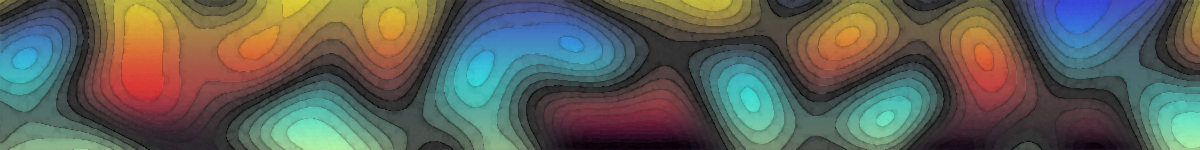
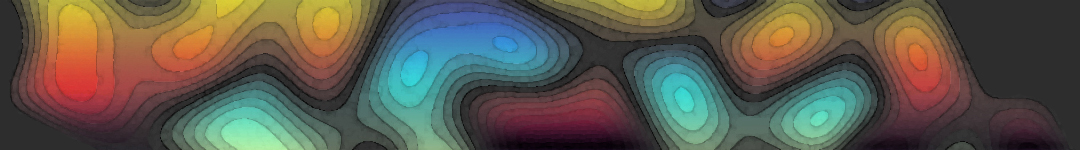
ver3
yee

diff --git a/style.css b/style.css
@@ -71,12 +71,18 @@ topbar{
 OBwindow {
   margin: 0 auto;
   width: 60%;
-  min-height: 300px;
+
   display: block;
   margin-top: 80px;
-  margin-bottom: 0px;
+  margin-bottom: 80px;
   position: relative;
+
+  transition: width 0.2s;
   /*box-shadow: 0 0px 10px 5px #777;*/
+}
+OBwindow:hover{
+  width: 62%;
+
 }
 .imageWindow{
   display: flex;
@@ -99,8 +105,6 @@ OBwindow {
   display: block;
   top: 0;
   left:0;
-
-
 }
 .typWindow{
   font: 22px Arial, sans-serif; color:rgb(221, 221, 221);
@@ -113,24 +117,26 @@ OBwindow {
   display: block;
   top: 0;
   left:0;
-
-
 }
 .contentWindow{
   display: block;
   overflow: hidden;
   width: 100%;
   border-bottom: 1px solid rgb(55, 56, 58);
-  height: 35px;
+  height: 0px;
   box-shadow: 7px 0px 10px -4px var(--shadowsColor), -7px 0px 10px -4px var(--shadowsColor), 0px 3px 6px 2px var(--shadowsColor);
   background-color: lightgrey;
+  z-index: 3;
+  transition: height 1s;
+
 }
+/*
 .contentWindow:hover{
-background-color: rgb(220,220,220);
+  background-color: rgb(220,220,220);
 }
 .contentWindowActive{
-  height: auto;
-}
+
+}*/
 .buttonCentr {
     cursor: pointer;
     min-width: 100px;
@@ -145,7 +151,7 @@ background-color: rgb(220,220,220);
 
 filtrTab{
   background-color: rgb(85, 86, 88);
-  margin-top: 60px;
+  margin-top: 70px;
   width: 100%;
   height: 30px;
   position: absolute;
@@ -157,19 +163,46 @@ filtrTab{
   z-index: 2;
 }
 
-pad{
-  width: 70%;
-  height: 1px;
-  background-color: var(--shadowsColor);
-    background-color: white;
 
-    border-top: 1px solid grey;
-  display: block;
-  opacity: 0.3;
-  margin: 0 auto;
-}
 img {
    position: relative;
    left: 50%;
    transform: translate(-50%,0);
+}
+.arrowimageDown{
+  height: 30px;
+  width: 30px;
+  margin-left: 50%;
+  margin-top: 177px;
+  position: absolute;
+  display: block;
+  z-index: 1;
+  top: 0;
+  left:0;
+  transition: margin-top 0.5s;
+  animation: arrowdownanim 1s ease infinite;
+}
+.arrowimageDown:hover{
+  transition: margin-top 2s;
+  border-bottom: 1px solid darkgrey;
+  animation: none;
+  margin-top: 184px;
+}
+pad{
+  width: 70%;
+  height: 1px;
+  background-color: white;
+  border-top: 1px solid grey;
+  display: block;
+  opacity: 0.3;
+  margin: 0 auto;
+
+}
+
+@keyframes arrowdownanim {
+  0%{margin-top: 140px;}
+
+  50%{margin-top: 144px;}
+
+  100%{margin-top: 140px;}
 }

diff --git a/index.html b/index.html
@@ -25,8 +25,9 @@
 
 
     <pad></pad>
+
     <OBwindow>
-      <div class="imageWindow" style="justify-content: center;"><img src="images/noisebar.jpg" style="margin:auto" alt="noiseBar">
+      <div class="imageWindow" style="background-color:rgb(49,49,49)"><img src="images/noisebar.jpg" alt="noiseBar">
         <div class="tytulWindow">
           Perlin Noise Generator
         </div>
@@ -35,9 +36,11 @@
         </div>
       </div>
       <div onclick="act(event)" class="contentWindow">asdasdsadsadasdasdasdasdasdsad <br> asdasdsadasdasd <br> asdasdsadasdasd <br> asdasdsadasdasd <br> asdasdsadasdasd <br> asdasdsadasdasd <br> asdasdsadasdasd <br> asdasdsadasdasd <br> asdasdsadasdasd <br> asdasdsadasdasd <br> asdasdsadasdasd <br> <br> asdasdsadasdasd <br> asdasdsadasdasd asdasdsadasdasd</div>
-
+      <img src="images/arrowDown.png" alt="" class="arrowimageDown">
     </OBwindow>
+
     <pad></pad>
+
     <OBwindow>
       <div class="imageWindow" style="background-color:rgb(254,244,103)"><img src="images/cubyebar.jpg" alt="noiseBar">
         <div class="tytulWindow">
@@ -47,9 +50,12 @@
           Game
         </div>
       </div>
-      <div onclick="act(event)" class="contentWindow">asdasdsadsadasdasdasdasdasdsad <br> asdasdsadasdasd</div>
+      <div onclick="act(event)" class="contentWindow">asdasdsadsadasdasdasdasdasdsad
+      </div>
     </OBwindow>
+
     <pad></pad>
+
     <OBwindow>
       <div class="imageWindow"><img src="images/galaxbar.jpg" alt="noiseBar">
         <div class="tytulWindow">
@@ -61,16 +67,21 @@
       </div>
       <div onclick="act(event)" class="contentWindow">asdasdsadsadasdasdasdasdasdsad <br> asdasdsadasdasd</div>
     </OBwindow>
+
     <pad></pad>
+
   </body>
 
   <script type="text/javascript" src="mainscripts.js"></script>
   <script>
     function act(){
-      if(event.target.style.height != 'auto')
-        event.target.style.height = 'auto';
-      else
+      if(event.target.style.height = '35px')
+      {
+        event.target.style.height = event.target.scrollHeight.toString() + "px";
+      }  //event.target.style.height = 'auto';
+      else{
         event.target.style.height = '35px';
+      }
     }
 
   </script>
